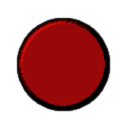
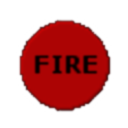
Zasłonka,NowyHUD

Changed region(s): [[0.125, 0.125, 0.875, 0.875]]

diff --git a/src/com/nauka/_HUD_.java b/src/com/nauka/_HUD_.java
@@ -11,7 +11,8 @@ public class _HUD_ extends HUD
 	MainActivity act;
 	AnimatedSprite 	przegrzanie;
 		   Sprite 	spriteHUD,
-		   			spriteHUDf;
+		   			spriteHUDf,
+		            spriteZaslaniaczPocisku;
 	private float stoprocent ;
 	float przegrzanie_zmienna;
 	_HUD_()
@@ -20,12 +21,20 @@ public class _HUD_ extends HUD
 		przegrzanie = new AnimatedSprite(0, 0, new stb("Bar", 512, 64,2,1).tiledT);
 		przegrzanie.setScaleCenter(0, 0);
 		przegrzanie.setScale(act.WIDTH /2/ przegrzanie.getWidth());
-		przegrzanie.setHeight(20);
+		przegrzanie.setHeight(0.15f * act.HEIGHT);
 		
-		spriteHUD = new Sprite(0, 0, new lb("HUD", 256, 256).region);
+		spriteZaslaniaczPocisku = new Sprite(0, 0, new lb("Zaslaniacz", 1024, 1024).region);
+		spriteZaslaniaczPocisku.setScaleCenter(0, 0);
+		spriteZaslaniaczPocisku.setWidth(act.WIDTH);
+		spriteZaslaniaczPocisku.setHeight(spriteZaslaniaczPocisku.getHeight() * 0.5f );
+		spriteZaslaniaczPocisku.setPosition(0, act.HEIGHT - spriteZaslaniaczPocisku.getHeightScaled());
+		
+		
+		
+		spriteHUD = new Sprite(0, 0, new lb("HUD", 1024, 1024).region);
 		spriteHUD.setScaleCenter(0, 0);
 		spriteHUD.setWidth(act.WIDTH);
-		spriteHUD.setHeight(spriteHUD.getHeight() * 1.8f );
+		spriteHUD.setHeight(spriteHUD.getHeight() * 0.5f );
 		spriteHUD.setPosition(0, act.HEIGHT - spriteHUD.getHeightScaled());
 		
 		spriteHUDf = new Sprite(0, 0, new lb("HUDfire", 128, 128).region)
@@ -58,6 +67,7 @@ public class _HUD_ extends HUD
 		
 		
 		registerTouchArea(spriteHUDf);
+		attachChild(spriteZaslaniaczPocisku);
 		attachChild(przegrzanie);
 		attachChild(spriteHUD);
 		attachChild(spriteHUDf);
@@ -71,7 +81,7 @@ public class _HUD_ extends HUD
 	{
 		przegrzanie_zmienna = (act.game.mig.przegrzanie * stoprocent)/act.game.mig.max_przegrzania  ;
 		przegrzanie.setWidth(przegrzanie_zmienna*2);	
-		przegrzanie.setPosition(act.WIDTH / 2 - przegrzanie.getWidthScaled() /2 , 0);
+		przegrzanie.setPosition(0 - przegrzanie.getWidthScaled()/3f, 0.92f * act.HEIGHT);
 	}
 	
 	void updateHUD()
